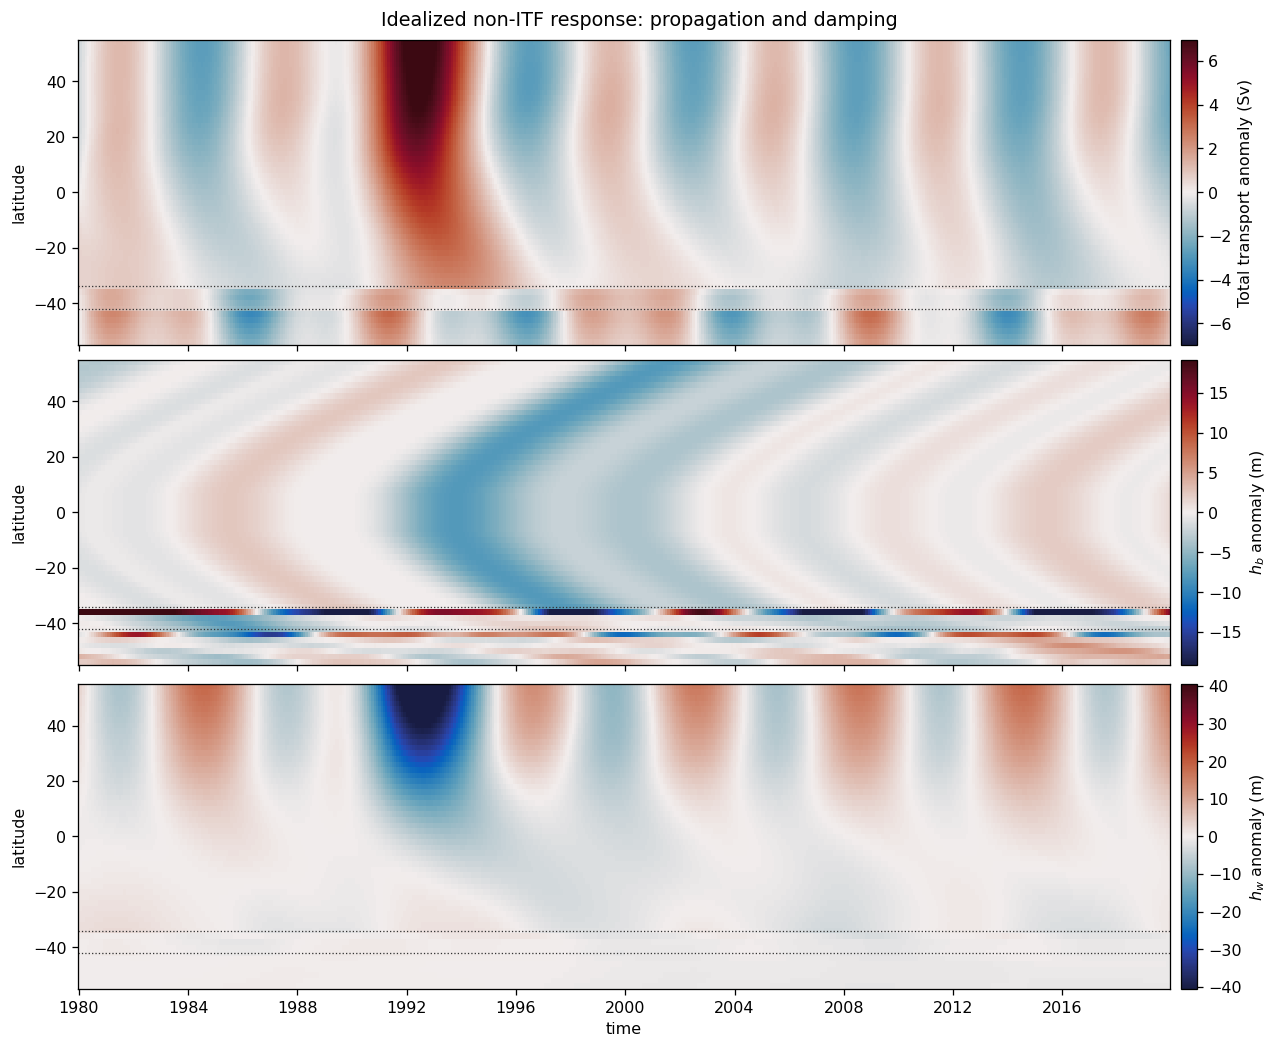
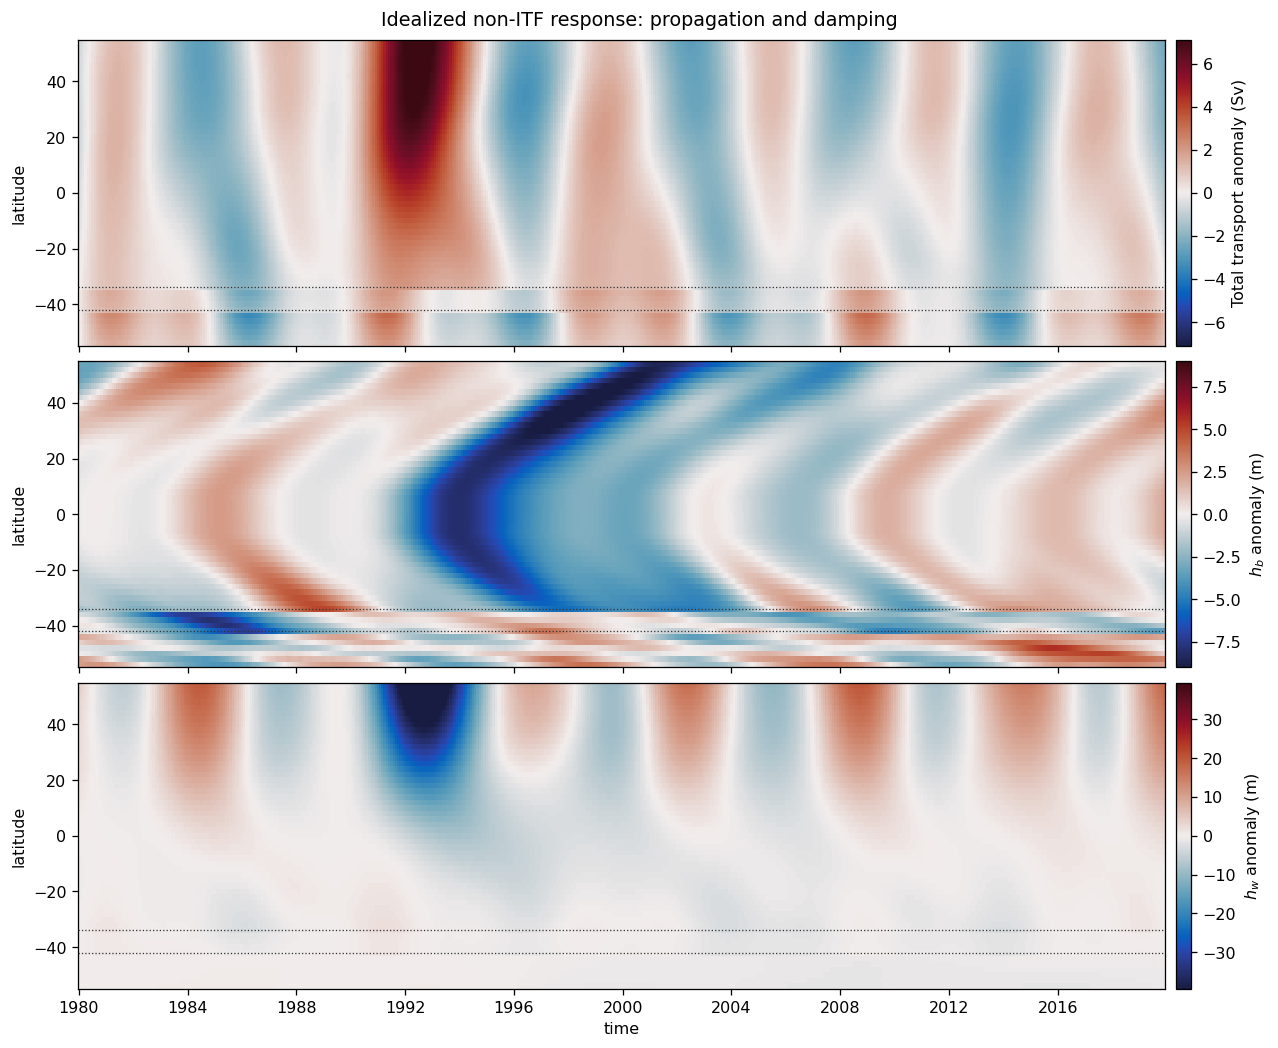
Remove artificial h_b gateway curl sheets

diff --git a/docs/examples/01_idealized_non_itf_adjustment.md b/docs/examples/01_idealized_non_itf_adjustment.md
@@ -9,9 +9,11 @@ transition regions.
 $y_I=-34^\circ$, and the Atlantic northern closure is $54^\circ$N.
 
 **Forcing.** The input is vector Ekman transport itself, not wind stress:
-$\mathbf{M}_{\mathrm{Ek}}$ is a smooth, basin-tapered oscillation. The northern
-transport combines an 8 Sv pulse and a six-year oscillation. The southern
-transport is derived from the same $M_{\mathrm{Ek},y}$ field.
+$\mathbf{M}_{\mathrm{Ek}}$ is a smooth analytic oscillation evaluated on the
+full forcing grid. The model applies the geometry when deriving regional
+terms, avoiding artificial curl sheets from a discontinuous basin mask. The
+northern transport combines an 8 Sv pulse and a six-year oscillation. The
+southern transport is derived from the same $M_{\mathrm{Ek},y}$ field.
 
 The plots are a geometry schematic, time/latitude Hovmöllers, and a transfer
 amplitude (damping-factor) contour against **linear period**. No forcing
@@ -41,7 +43,6 @@ sys.path.insert(0, str(REPO / "notebooks"))
 from moc_adjustment_theory import GlobalAdjustmentModel, GlobalForcing
 from _example_helpers import (
     non_itf_geometry,
-    non_itf_taper,
     plot_geometry,
     section_transport,
     stitched_atlantic,
@@ -111,12 +112,6 @@ latitude = np.arange(y_S, y_NP + 0.1, 2.0)
 longitude = np.arange(0.0, 360.0, 4.0)
 years = np.arange(time.size) / 12.0
 
-taper = non_itf_taper(
-    geometry,
-    xr.DataArray(latitude, dims="latitude"),
-    xr.DataArray(longitude, dims="longitude"),
-    width_degrees=4.0,
-)
 wind_clock = xr.DataArray(
     np.sin(2 * np.pi * years / 9.0) + 0.45 * np.sin(2 * np.pi * years / 3.5),
     dims="time",
@@ -129,10 +124,10 @@ lon_shape = xr.DataArray(
     np.sin(np.deg2rad(longitude)), dims="longitude", coords={"longitude": longitude}
 )
 
-M_ek_y = (0.12 * wind_clock * lat_shape * taper).transpose(
+M_ek_y = (0.12 * wind_clock * lat_shape * xr.ones_like(lon_shape)).transpose(
     "time", "latitude", "longitude"
 )
-M_ek_x = (0.04 * wind_clock * lat_shape * lon_shape * taper).transpose(
+M_ek_x = (0.04 * wind_clock * lat_shape * lon_shape).transpose(
     "time", "latitude", "longitude"
 )
 M_ek_y.attrs.update(units="m2 s-1", positive="northward")
@@ -175,6 +170,12 @@ atlantic = xr.Dataset(
         "h_w": stitched_atlantic(output.h_w, geometry),
     }
 )
+
+# Guard against grid-row curl sheets from discontinuous preprocessing masks.
+h_b_rms = np.sqrt((atlantic.h_b**2).mean("time"))
+for boundary in (y_P, y_I):
+    window = h_b_rms.sel(latitude=slice(boundary - 4, boundary + 4))
+    assert float(window.max() / window.median()) < 2.0
 
 fig, axes = plt.subplots(3, 1, figsize=(11, 9), sharex=True, constrained_layout=True)
 specs = [